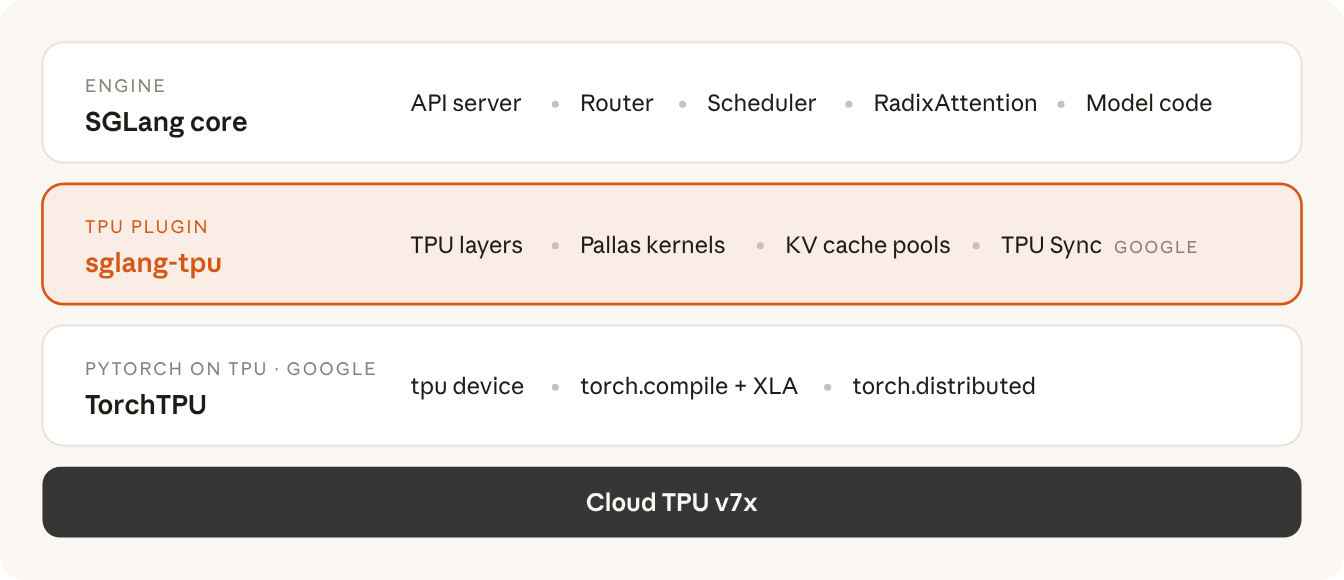
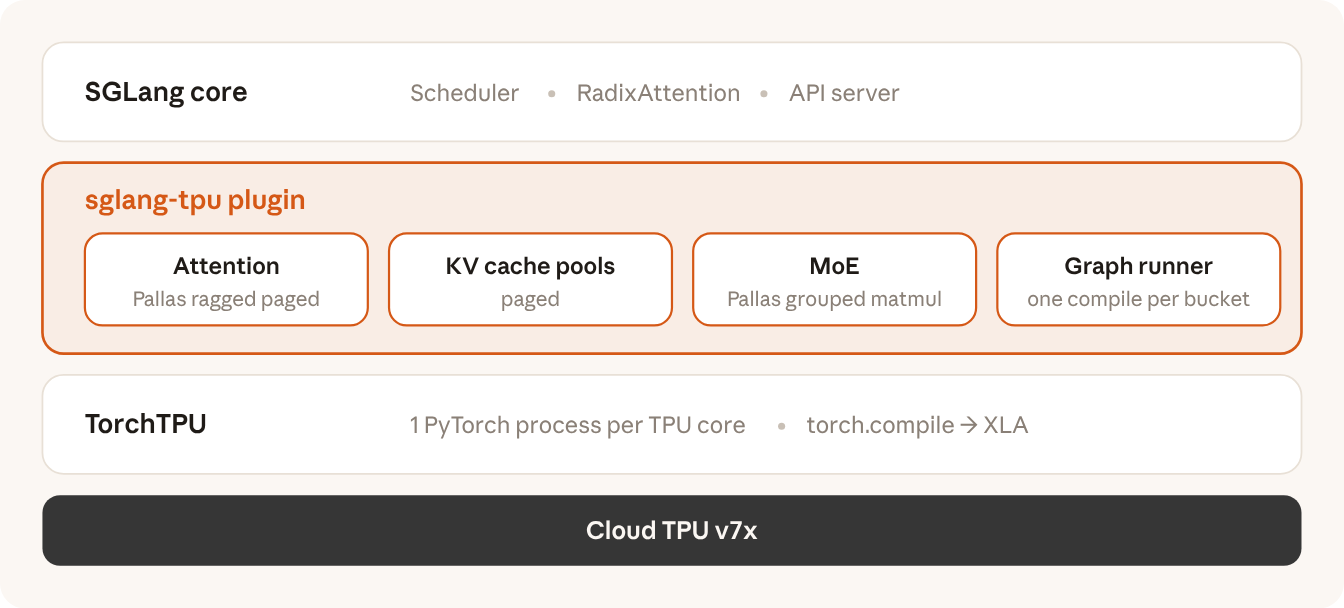
[Blog] SGLang-TorchTPU: revise post after review (#440)
* SGLang-TorchTPU post: new title, TL;DR, How it works diagrams, Built with section, Get started and Community

* SGLang-TorchTPU post: reword the Meta TL;DR line

* SGLang-TorchTPU post: reword the Built with line

* SGLang-TorchTPU post: TL;DR wording

* SGLang-TorchTPU post: merge Why TorchTPU into the intro, move Built with before Get started

diff --git a/blog/2026-10-20-sglang-torchtpu.md b/blog/2026-10-20-sglang-torchtpu.md
@@ -1,5 +1,5 @@
 ---
-title: "SGLang-TorchTPU: PyTorch-Native Production Serving on TPU, Built with Google and Meta"
+title: "SGLang-TorchTPU: PyTorch-Native Production Serving on TPUs"
 author: "RadixArk, Google and Meta"
 date: "October 20, 2026"
 previewImg: /images/blog/sglang-torchtpu/hero.png
@@ -11,46 +11,35 @@ type: blog
 ## TL;DR
 
 - SGLang-TorchTPU is open source today, built by the SGLang team at RadixArk in collaboration with Google and Meta.
-- Launch models include: Muse Spark Open, GLM-5.3 Flash, GLM-5.3, Kimi K3, DeepSeek V4, Ling 3.1 Flash, Qwen3.8, Gemma 4 and MiniMax H3.
-- Production-ready for agentic workloads and large-model serving.
-- Already running in production at Meta.
-- Can serve as the rollout engine for RL training on TPU, paired with TorchTitan through Miles.
+- Launch models include Muse Spark Open, GLM-5.3 Flash, GLM-5.3, Kimi K3, DeepSeek V4, Ling 3.1 Flash, Qwen3.8, Gemma 4 and MiniMax H3.
+- The plugin brings the full SGLang feature set to TPU, ready for agentic workloads.
+- It is already proven in large-scale production at Meta.
+- RL training on TPU works with SGLang-TorchTPU and TorchTitan in Miles.
+- Contributors can apply for free TPU compute from RadixArk's [community TPU capacity pool](https://docs.google.com/forms/d/e/1FAIpQLSenGavH0yrQWfcaMnVbcTg9cPyPHxMZG2LUegYJUYfai828hA/viewform).
 
 ## Introduction
 
-Today we are launching SGLang-TorchTPU, a native PyTorch backend that brings SGLang's full serving stack to Google Cloud TPU. It enables the same SGLang engine to serve models on both GPUs and TPUs, so you can pick the hardware that best fits each workload and its deployment economics.
+Today we are launching SGLang-TorchTPU, a native PyTorch backend that brings SGLang's full serving stack to Google Cloud TPU. SGLang's serving engine and model implementations are built on PyTorch, and with TorchTPU the same codebase serves on both GPUs and TPUs, so you can pick the hardware that best fits each workload and its deployment economics.
 
-## Why TorchTPU
-
-Most models today are written and served in PyTorch, and serving stacks are built on the ecosystem around it, from torch.compile to torch.distributed. We want TPU to fit into that same workflow.
-
-TorchTPU makes TPU a native PyTorch device that runs eagerly or compiles through XLA. SGLang-TorchTPU builds on it and brings SGLang's serving features to TPU, on top of TPU-tuned Pallas kernels.
-
-## Built with Google and Meta
-
-Google built TorchTPU and worked with us on the TPU backend itself, from Pallas kernels to the TPU Sync transfer path. The SGLang team at RadixArk built the serving runtime, its TPU integration and most of the model support. Meta engineers contributed compilation and disaggregated-serving work, and brought production workloads that shaped the engine from the start.
-
-> "As agentic workloads grow, serving efficiency matters more than ever, and developers want to get there on TPU without leaving PyTorch. Co-developing SGLang-TorchTPU with RadixArk and Meta gives them a production-ready engine for popular open models, with the cost efficiency of Cloud TPU."
->
-> <strong style="font-style: normal;">Qi Zhou, Tech Lead on AI Inference, Google</strong>
-
-> "SGLang-TorchTPU is running in production at Meta today, and getting there was a close three-way collaboration between Meta, Google, and the SGLang team to make the stack production-ready. It gives us a remarkably mature, PyTorch-native serving stack that integrates effortlessly into our existing AI infrastructure, with the performance, reliability, and flexibility we need to run frontier workloads efficiently on TPUs."
->
-> <strong style="font-style: normal;">Zongwei Zhou, PyTorch-TPU Lead, Meta</strong>
+TPU-specific components remain isolated in the plugin. New models and features added to SGLang could therefore become available on TPU through a single implementation.
 
 ## How it works
 
-![The SGLang-TorchTPU stack: SGLang core (API server, router, scheduler, RadixAttention, model code) on top of the sglang-tpu plugin (TPU layers, Pallas kernels, KV cache pools, TPU Sync), on top of TorchTPU (tpu device, torch.compile + XLA, torch.distributed), on Cloud TPU v7x.](/images/blog/sglang-torchtpu/stack.png)
+![SGLang core (scheduler, RadixAttention, API server) on top of the sglang-tpu plugin (Pallas ragged paged attention, paged KV cache pools, Pallas grouped matmul MoE, a graph runner that compiles once per bucket), on TorchTPU (one PyTorch process per TPU core, torch.compile to XLA), on Cloud TPU v7x.](/images/blog/sglang-torchtpu/stack.png)
 
-<p style="text-align: center; color: #6b7280; font-size: 0.875rem; margin-top: 0.25rem;">Figure 1: The SGLang-TorchTPU stack.</p>
+<p style="text-align: center; color: #6b7280; font-size: 0.875rem; font-style: italic; margin-top: 0.25rem;">Figure 1: How the sglang-tpu plugin fits into SGLang.</p>
 
-Each device runs its own PyTorch process, so SGLang's scheduler, RadixAttention and API server run unchanged. The TPU work sits underneath them. The KV cache lives in a paged pool laid out for Pallas ragged paged attention, with FP8 KV by default, and Pallas kernels for attention and MoE grouped matmul are called as PyTorch custom ops inside the torch.compile graph. All of it ships as the sglang-tpu plugin, which SGLang loads when you pass `--device tpu`.
+SGLang-TorchTPU is an out-of-tree plugin. Installing the sglang-tpu package registers a TPU platform with SGLang through the `sglang.srt.platforms` entry point, and `SGLANG_PLATFORM=tpu_oot` selects it. The scheduler, RadixAttention and API server are SGLang's own. The plugin fills in the parts SGLang already asks each hardware platform for: the attention backend, the KV cache pools, the MoE kernels and the graph runner.
 
-KV cache transfers between TPU devices and host memory can run on [TPU Sync](https://github.com/google/tpu-sync), Google's open-source transfer library. For KV cache offloading, it moves KV pages to a DMA-pinned host memory pool. For prefill-decode disaggregation, the decode side pulls KV from prefill chunk by chunk as each prefill step commits, so only the last chunk is left to move when prefill ends. When the two sides use different tensor-parallel sizes, KV is resharded on the way, for example from 16 prefill shards to 8 decode shards.
+Each TPU core runs its own PyTorch process through TorchTPU, as each GPU does on CUDA. The model runs under torch.compile and lowers to XLA. There is no graph capture: instead, the runner pads each forward to a fixed set of token-count buckets for prefill and batch-size buckets for decode. Each bucket compiles once, and later steps dispatch to the cached program by shape.
 
-![KV cache transfer with TPU Sync: in prefill-decode disaggregation, KV moves chunk by chunk from prefill (TP 16) to decode (TP 8); in KV cache offloading, KV is evicted from TPU HBM to host memory and reloaded.](/images/blog/sglang-torchtpu/kv-transfer.png)
+Attention and MoE run on Pallas kernels, registered as torch.library custom ops that Dynamo treats as opaque calls inside the compiled graph: ragged paged attention over a paged KV cache, and a grouped matmul over the sorted expert groups for MoE.
 
-<p style="text-align: center; color: #6b7280; font-size: 0.875rem; margin-top: 0.25rem;">Figure 2: KV cache transfer with TPU Sync.</p>
+When KV has to leave the device, for KV cache offloading to host memory or for prefill-decode disaggregation across hosts, it can move over [TPU Sync](https://github.com/google/tpu-sync), Google's open-source TPU DMA library. Offload copies whole KV pages between HBM and a pinned host pool by direct PJRT DMA. For disaggregation the transfer is consumer-pull: as each chunked-prefill step commits its pages, the prefill announces them and the decode side pulls that chunk while the next one computes, so only the last chunk remains to move once prefill finishes. Pages the decode already holds from its own prefix cache are never sent. When prefill and decode use different tensor-parallel sizes, TPU Sync reshards in flight: each prefill rank pushes its slice of the KV heads, strided, into the decode rank's page layout.
+
+![KV cache transfer with TPU Sync: decode pulls each prefill chunk while the next computes, so only the last chunk waits; TP 16 to TP 8 reshards strided KV heads; offload moves KV pages between TPU HBM and a host pool by DMA.](/images/blog/sglang-torchtpu/kv-transfer.png)
+
+<p style="text-align: center; color: #6b7280; font-size: 0.875rem; font-style: italic; margin-top: 0.25rem;">Figure 2: KV cache transfer with TPU Sync.</p>
 
 ## Feature and model coverage
 
@@ -60,9 +49,9 @@ These are the SGLang serving features available on TPU at launch:
 | --- | --- |
 | Core serving | OpenAI-compatible API; continuous batching; chunked prefill; structured output and function calling (experimental) |
 | Agentic and multi-turn | RadixAttention prefix caching, including hybrid sliding-window and linear-attention models; KV cache offloading to host memory; tested nightly on an agentic tool-call workload |
-| Interactive, low latency | Speculative decoding with EAGLE-3, DFlash and MTP drafters; DFlash2 and DSPark (experimental) |
+| Interactive, low latency | Speculative decoding with EAGLE-3, DFlash, DFlash2, DSPark and MTP drafters |
 | High-throughput batch | Data-parallel attention with expert parallelism |
-| Long context | FP8 KV cache; context parallelism for prefill and decode (experimental) |
+| Long context | FP8 KV cache; context parallelism for prefill and decode |
 | Disaggregated serving | Prefill and decode on separate hosts, with KV resharding between different tensor-parallel sizes |
 | Multimodal | Vision-language models with image input: Qwen3-VL, Qwen3.5-VL, Kimi MoonViT and Gemma 4 vision |
 | Very large models | Tensor and expert parallelism and data-parallel attention across hosts; FP8, MXFP4 and INT4 checkpoints; pipeline parallelism and NVFP4 MoE (experimental) |
@@ -83,28 +72,27 @@ We have been working hard to bring the most popular open models to TPU at launch
 
 Also supported: gpt-oss, Qwen3-Coder-480B, Qwen3.5, DeepSeek-V3.1 and R1, Kimi-K2.6, MiMo-V2.5-Pro and Qwen3-VL.
 
-We will keep adding new models and optimizing the ones already supported, starting with DeepSeek V4.1 Flash and Reflection Beam.
+We will keep adding new models and optimizing the ones already supported, starting with DeepSeek V4.1 Flash and Reflection Beam, and we are working toward Day 0 TPU support for new open models by Q1 2027.
 
 The full list, with support tiers and per-model notes, is in [SUPPORT.md](https://github.com/sgl-project/sglang-torchtpu/blob/main/SUPPORT.md).
 
 ## Reliability
 
-Reliability is designed into how SGLang-TorchTPU is built. Every model and feature marked supported is tied to a CI test on real TPU hardware, and the support matrix is generated from those test registrations, so what we claim always reflects what we run. Features still being validated are marked Experimental until their tests pass.
+Every model and feature marked supported has a CI test on real TPU hardware, and the support matrix is generated from those test registrations. Anything still being validated stays Experimental until its tests pass.
 
 ![SGLang-TorchTPU support tiers: Experimental moves to Supported with a nightly test, and Supported moves to Optimized with accuracy and performance tests, all on TPU v7x every PR and every night.](/images/blog/sglang-torchtpu/ci-tiers.png)
 
-<p style="text-align: center; color: #6b7280; font-size: 0.875rem; margin-top: 0.25rem;">Figure 3: How models and features move through the support tiers.</p>
+<p style="text-align: center; color: #6b7280; font-size: 0.875rem; font-style: italic; margin-top: 0.25rem;">Figure 3: How models and features move through the support tiers.</p>
 
 Pull requests run a TPU suite on a single-host TPU v7x slice, and together with nightly suites, CI covers 15 models on single-host and multi-host TPU v7x, with 193 TPU tests registered today. They check:
 
 - Kernel correctness
-- End-to-end serving and model accuracy on standard evals such as GSM8K, GPQA, AIME, MMLU-Pro and MMMU
-- Speculative decoding
-- Prefix caching and KV cache offloading
-- Multi-host execution and PD disaggregation, including KV resharding
+- Model accuracy on standard evals such as GSM8K, GPQA, AIME, MMLU-Pro and MMMU
+- Serving features: speculative decoding, prefix caching, KV cache offloading, DP attention, multi-host execution and PD disaggregation with KV resharding
+- Feature combinations, such as speculative decoding with PD disaggregation, and prefix caching with KV cache offloading
 - Agentic tool-call workloads on multi-host deployments
 
-If a model or feature is marked supported, it has passed these tests on TPU v7x and is retested every night, so regressions show up in CI before they reach production.
+Nightly runs repeat these checks for every supported model, so the support matrix stays current.
 
 ## Training with TPU on Miles
 
@@ -114,7 +102,7 @@ The trainer is TorchTitan, PyTorch's native training library, running on TorchTP
 
 ![RL training with Miles on one TPU v7x host: SGLang-TorchTPU generates rollouts on 2 chips, TorchTitan trains on 2 chips, and new weights move back to the engine through shared memory, disk or ICI (planned).](/images/blog/sglang-torchtpu/miles-rl.png)
 
-<p style="text-align: center; color: #6b7280; font-size: 0.875rem; margin-top: 0.25rem;">Figure 4: RL training with Miles on one TPU v7x host.</p>
+<p style="text-align: center; color: #6b7280; font-size: 0.875rem; font-style: italic; margin-top: 0.25rem;">Figure 4: RL training with Miles on one TPU v7x host.</p>
 
 Miles can move the new weights from the trainer to the engine in three ways:
 
@@ -126,7 +114,7 @@ We trained Qwen3-4B with GRPO on DAPO-Math-17k on a single TPU v7x host with 4 c
 
 ![Qwen3-4B GRPO on DAPO-Math-17k: 6x H200 GPU vs. 4 TPU v7x chips](/images/blog/sglang-torchtpu/qwen3-4b-grpo-tpu-vs-gpu.png)
 
-<p style="text-align: center; color: #6b7280; font-size: 0.875rem; margin-top: 0.25rem;">Figure 5: Qwen3-4B GRPO on DAPO-Math-17k, 6x H200 GPUs vs. 4 TPU v7x chips.</p>
+<p style="text-align: center; color: #6b7280; font-size: 0.875rem; font-style: italic; margin-top: 0.25rem;">Figure 5: Qwen3-4B GRPO on DAPO-Math-17k, 6x H200 GPUs vs. 4 TPU v7x chips.</p>
 
 Reward and response length curves on TPU match GPU within seed-to-seed variation, and AIME-24 stays within eval noise.
 
@@ -139,38 +127,43 @@ Miles TPU training is in preview. This small-scale experiment demonstrates an en
 - Larger-scale validation, with parity checks on longer runs and long-horizon agentic tasks
 - Training and inference consistency, with bitwise-identical log-probs between the two
 
+## Built with Google and Meta
+
+SGLang-TorchTPU was developed jointly by Google, Meta and the SGLang team at RadixArk.
+
+> "As agentic workloads grow, serving efficiency matters more than ever, and developers want to get there on TPU without leaving PyTorch. Co-developing SGLang-TorchTPU with RadixArk and Meta gives them a production-ready engine for popular open models, with the cost efficiency of Cloud TPU."
+>
+> <strong style="font-style: normal;">Qi Zhou, Tech Lead on AI Inference, Google</strong>
+
+> "SGLang-TorchTPU is running in production at Meta today, and getting there was a close three-way collaboration between Meta, Google, and the SGLang team to make the stack production-ready. It gives us a remarkably mature, PyTorch-native serving stack that integrates effortlessly into our existing AI infrastructure, with the performance, reliability, and flexibility we need to run frontier workloads efficiently on TPUs."
+>
+> <strong style="font-style: normal;">Zongwei Zhou, PyTorch-TPU Lead, Meta</strong>
+
 ## Get started
 
-Pull the image and start a container on a TPU v7x host:
+On a TPU v7x host, start the prebuilt image, launch a model and send a request:
 
 ```bash
-docker pull lmsysorg/sglang:v0.1.0-tpu
-
+# Start the container
 docker run -it --rm --privileged --net=host --shm-size=64g \
-  -e SGLANG_PLATFORM=tpu_oot \
-  lmsysorg/sglang:v0.1.0-tpu
-```
+  -e SGLANG_PLATFORM=tpu_oot lmsysorg/sglang:v0.1.0-tpu
 
-Inside the container, launch GPT-OSS-20B with the single-host recipe, then send a request:
+# Inside the container, launch GPT-OSS-20B
+python -m benchmark.tpu.launch_server \
+  --config recipe/configs/gpt_oss_20b/server.py
 
-```bash
-python -m benchmark.tpu.launch_server --config recipe/configs/gpt_oss_20b/server.py
-
+# From another terminal, send a request
 curl http://localhost:30000/v1/chat/completions \
   -H "Content-Type: application/json" \
   -d '{"model": "gpt-oss-20b", "messages": [{"role": "user", "content": "Hello"}]}'
 ```
 
-To install with pip or from source instead, see the [README](https://github.com/sgl-project/sglang-torchtpu#get-started).
-
-- GitHub: [sgl-project/sglang-torchtpu](https://github.com/sgl-project/sglang-torchtpu)
-- Supported models and features: [SUPPORT.md](https://github.com/sgl-project/sglang-torchtpu/blob/main/SUPPORT.md), with the test behind each row in [SUPPORT_MATRIX.md](https://github.com/sgl-project/sglang-torchtpu/blob/main/SUPPORT_MATRIX.md)
-- Cookbook: [cookbook.sglang.io](https://cookbook.sglang.io/)
+To install with pip or from source, see the [README](https://github.com/sgl-project/sglang-torchtpu#get-started). The [TPU guide](https://docs.sglang.io/docs/hardware-platforms/tpu) covers deployment, the [recipes](https://github.com/sgl-project/sglang-torchtpu/blob/main/benchmark/tpu/recipe/README.md) have ready-to-run server configs, and [SUPPORT.md](https://github.com/sgl-project/sglang-torchtpu/blob/main/SUPPORT.md) lists the supported models and features.
 
 ## Community
 
-We are working toward Day 0 TPU support for new open models by Q1 2027.
+RadixArk is offering free TPU compute to developers who contribute to SGLang-TorchTPU. [Apply for the community TPU capacity pool here](https://docs.google.com/forms/d/e/1FAIpQLSenGavH0yrQWfcaMnVbcTg9cPyPHxMZG2LUegYJUYfai828hA/viewform).
 
-- RadixArk is opening a [community TPU capacity pool](https://docs.google.com/forms/d/e/1FAIpQLSenGavH0yrQWfcaMnVbcTg9cPyPHxMZG2LUegYJUYfai828hA/viewform) with free compute for developers who contribute to [SGLang-TorchTPU](https://github.com/sgl-project/sglang-torchtpu).
-- To ask questions, join #torchtpu on the [SGLang Slack](https://slack.sglang.io). To request a model or propose a feature, open an issue on [GitHub](https://github.com/sgl-project/sglang-torchtpu).
-- Google, Meta and RadixArk will share more at SGLang Summit 2026, November 12 to 13 at Fort Mason, San Francisco ([sglang.io/summit](https://sglang.io/summit)).
+For questions, join #torchtpu on the [SGLang Slack](https://slack.sglang.io). To request a model or propose a feature, [open an issue on GitHub](https://github.com/sgl-project/sglang-torchtpu/issues).
+
+Google, Meta and RadixArk will share more at [SGLang Summit 2026](https://sglang.io/summit), November 12 to 13 at Fort Mason, San Francisco.
